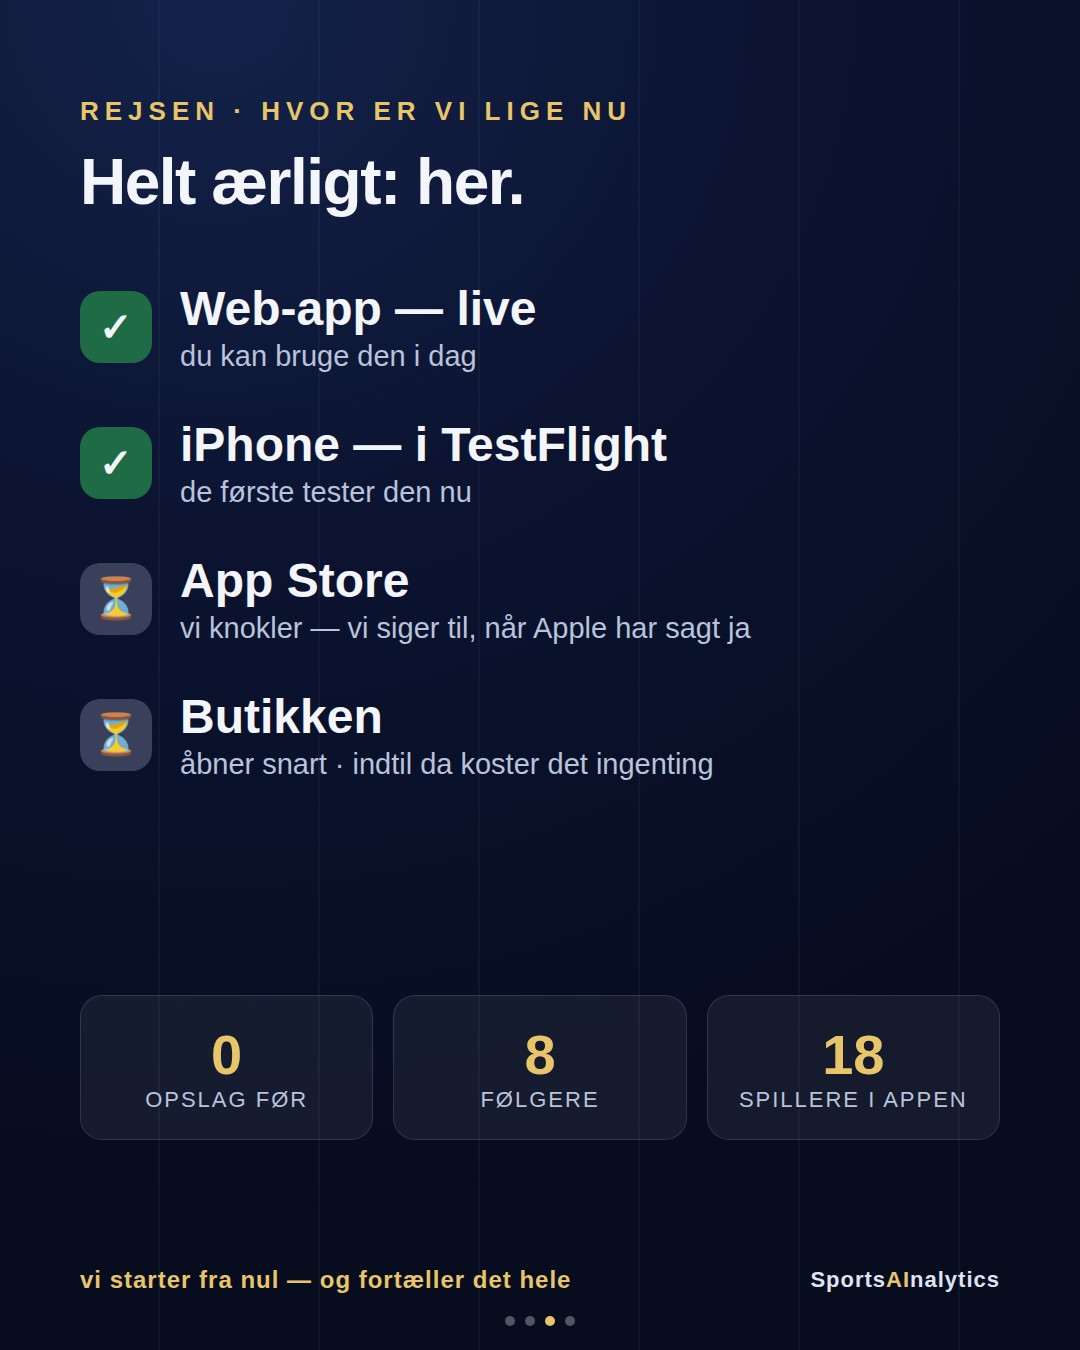
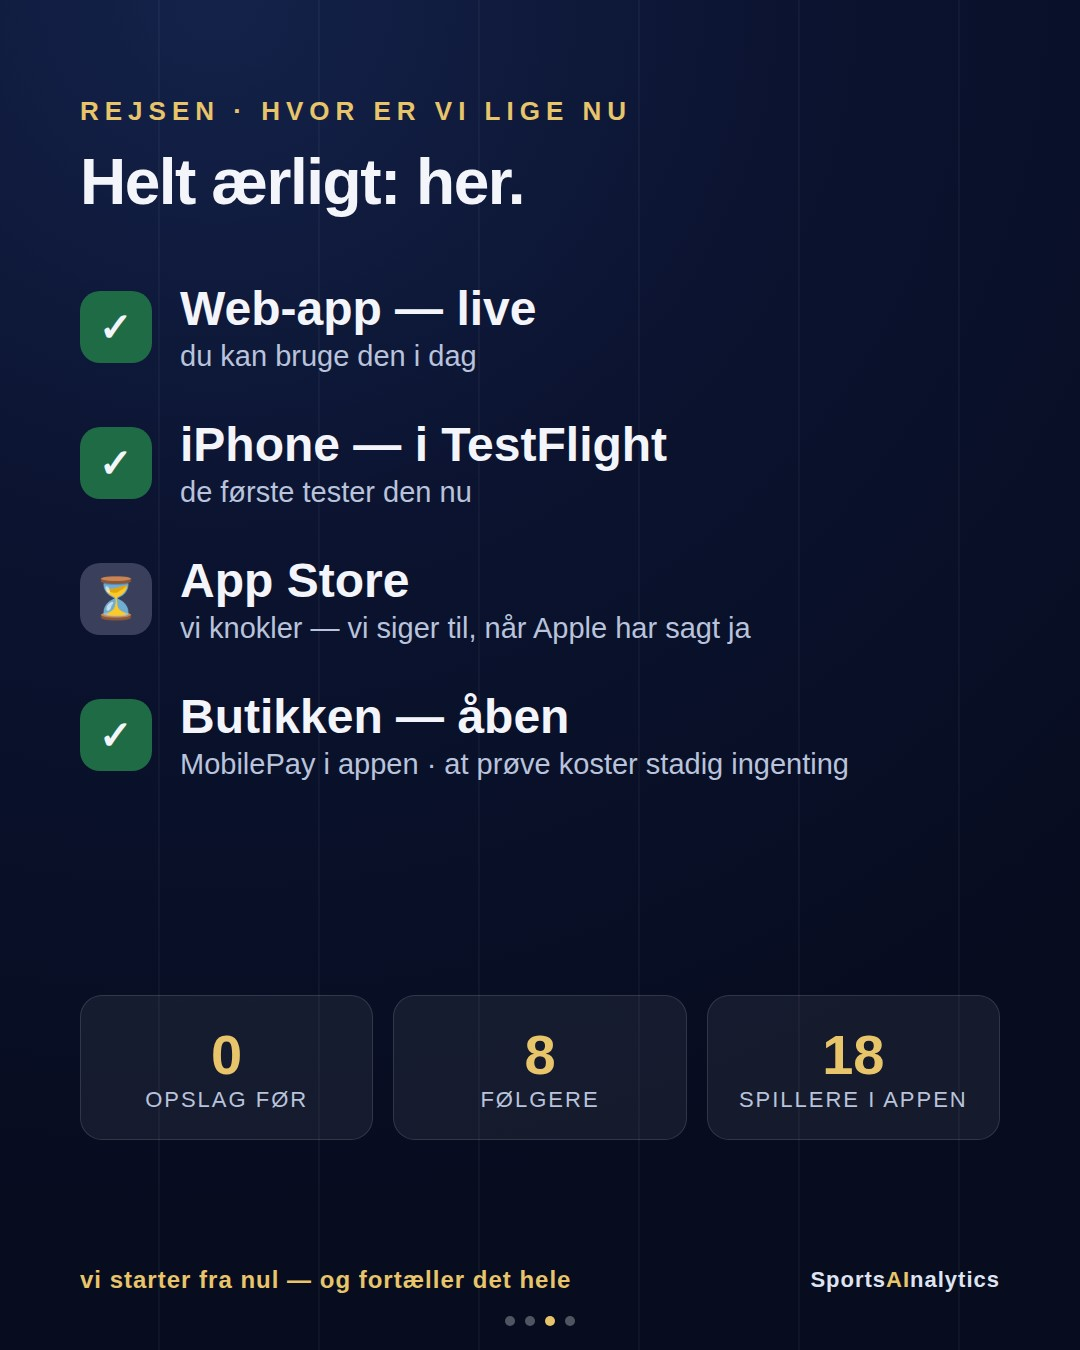
Handelsbetingelser version 3 (pakker) og karrusel-kort 3: butikken er åben

Changed region(s): [[0.0611, 0.4978, 0.7944, 0.5911]]

diff --git a/handelsbetingelser.html b/handelsbetingelser.html
@@ -28,7 +28,7 @@ a{color:var(--is)}
 <main>
 <div class="maerke">STREAKTENNIS</div>
 <h1>Handelsbetingelser</h1>
-<p class="dato">Gælder for køb af abonnementer og enkeltkøb i StreakTennis · version 2 · 27. september 2026 (version 1: 24. september 2026)</p>
+<p class="dato">Gælder for køb af abonnementer og enkeltkøb i StreakTennis · version 3 · 28. september 2026 (version 2: 27. september · version 1: 24. september 2026)</p>
 
 <section>
 <h2>1 · Hvem du handler med</h2>
@@ -48,10 +48,10 @@ Telefon: <a href="tel:+4561227607">61 22 76 07</a></p>
 <tr><td><b>Fuld adgang + fri streaming</b><br><span class="lille">Alt i Fuld adgang · live-deling uden loft</span></td><td>98 kr./md.</td></tr>
 <tr><td><b>Fri streaming oven på klubbens plan</b><br><span class="lille">Betaler din klub for din adgang, kan du selv lægge live-deling uden loft oven på</span></td><td>49 kr./md.</td></tr>
 </table>
-<p>Enkeltkøb gælder én kamp og fornyes ikke:</p>
+<p>Enkeltkøb gælder én kamp og fornyes ikke. De kan købes én ad gangen eller som pakker på 3 eller 5 — en pakke betales på én gang, og hver kamp i pakken ligger klar til dine næste kampe. Købte kampe udløber ikke:</p>
 <table>
-<tr><td><b>Kampen</b> (Basis)<br><span class="lille">Live-deling af én kamp og én AI-analyse af den</span></td><td>20 kr.</td></tr>
-<tr><td><b>Ekstra live-kamp</b> (Fuld adgang og klub)<br><span class="lille">Live-deling af én kamp mere, når månedens 3 er brugt</span></td><td>15 kr.</td></tr>
+<tr><td><b>Kampen</b> (Basis)<br><span class="lille">Live-deling af én kamp og én AI-analyse af den</span></td><td>20 kr.<br><span class="lille">3 for 54 kr. · 5 for 85 kr.</span></td></tr>
+<tr><td><b>Ekstra live-kamp</b> (Fuld adgang og klub)<br><span class="lille">Live-deling af én kamp mere, når månedens 3 er brugt</span></td><td>15 kr.<br><span class="lille">3 for 40 kr. · 5 for 65 kr.</span></td></tr>
 </table>
 <p>Et enkeltkøb bruges, når kampen startes live, eller når analysen hentes — det, der sker først. Et købt, ubrugt køb ligger klar til din næste kamp.</p>
 <p>At se med på en live-kamp er altid gratis. Betaler din klub for din adgang, gælder klubbens aftale for den — disse betingelser gælder for det, du selv køber oven på.</p>
@@ -80,7 +80,7 @@ Telefon: <a href="tel:+4561227607">61 22 76 07</a></p>
 <h2>6 · Fortrydelsesret</h2>
 <p>Du kan fortryde et abonnement i <b>14 dage</b> fra den dag, du køber. Fortryder du, får du hele beløbet tilbage, også selvom du har brugt appen i perioden.</p>
 <p>Du fortryder ved at trykke <b>Fortryd aftale</b> under Din konto i appen, eller ved at skrive til os på mail inden for de 14 dage. Du får en bekræftelse på mail, og pengene sendes tilbage til det MobilePay, du betalte med, senest 14 dage efter.</p>
-<p>Et enkeltkøb kan fortrydes i 14 dage, så længe det ikke er brugt. Når kampen er startet live, eller analysen er hentet, er købet leveret, og fortrydelsesretten bortfalder.</p>
+<p>Et enkeltkøb kan fortrydes i 14 dage, så længe det ikke er brugt. Når kampen er startet live, eller analysen er hentet, er købet leveret, og fortrydelsesretten bortfalder. En pakke fortrydes samlet, så længe ingen af kampene i den er brugt; er én brugt, er pakken leveret.</p>
 </section>
 
 <section>
